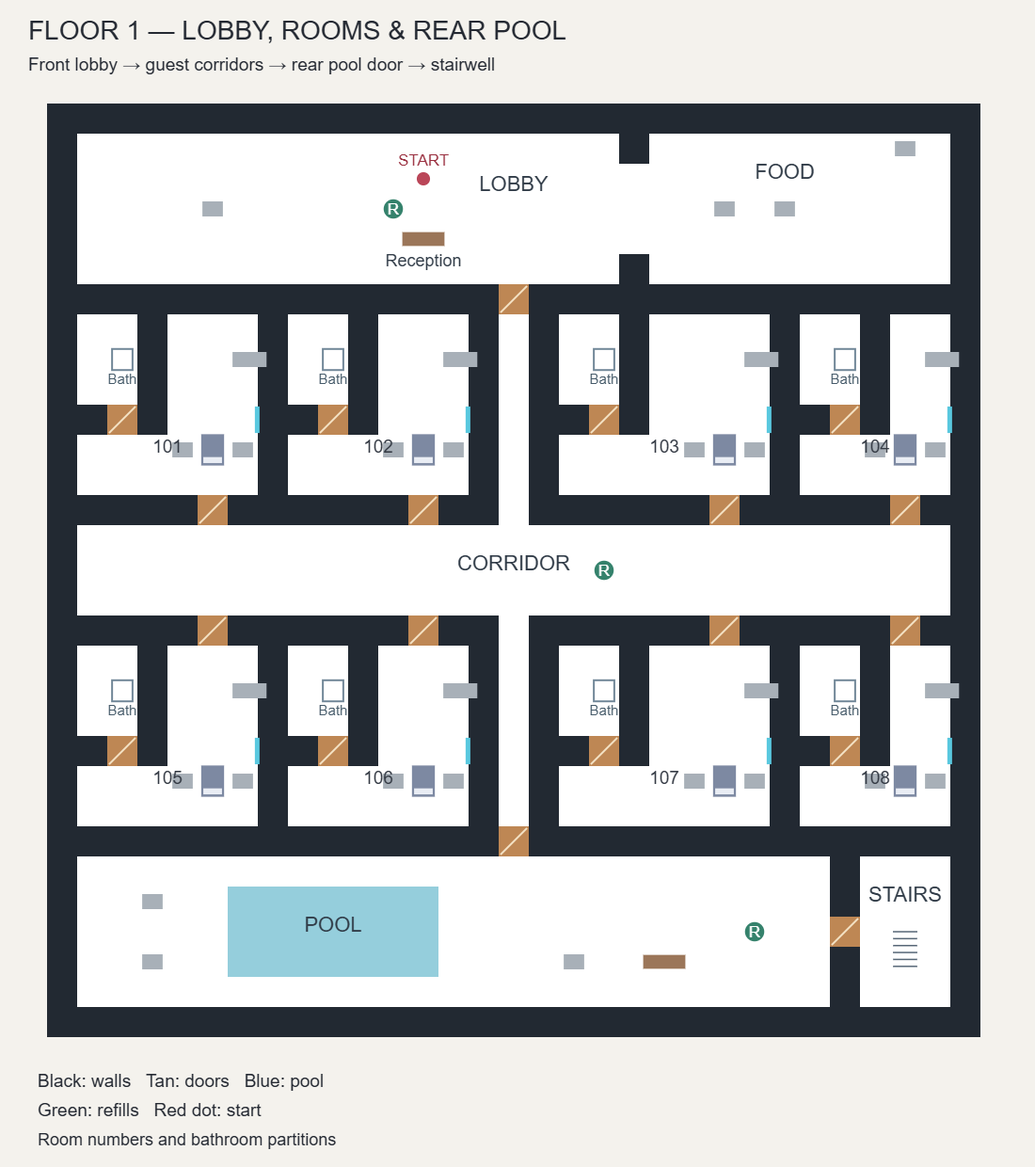
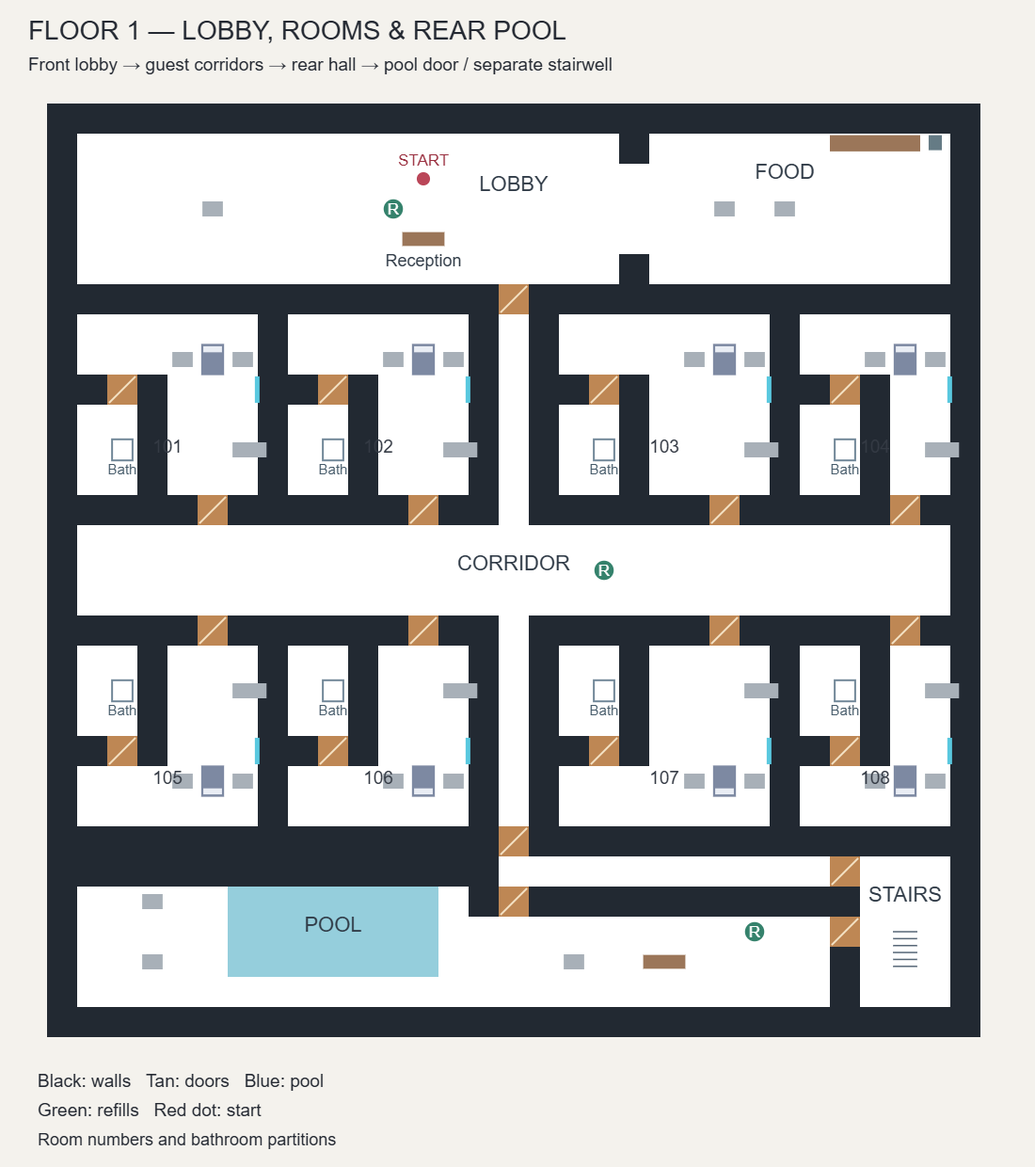
Correct hotel circulation and add dining breakfast station

diff --git a/hotel-headshots/scene.js b/hotel-headshots/scene.js
@@ -39,13 +39,35 @@
   for(const d of map.doors){const x=R.world(d.x),z=R.world(d.z),side=map.grid[d.z-1]?.[d.x]==='#';d.side=side;box('door lintel',[x,3.25,z],side?[.35,.5,2.4]:[2.4,.5,.35],wood);const hinge=new B.TransformNode('door hinge',scene);hinge.position=side?V(x,0,z-1.13):V(x-1.13,0,z);hinge.rotation.y=side?Math.PI/2:0;const mesh=box('door',[1.13,1.5,0],[2.2,3,.12],wood,hinge,true);box('door inlay',[1.13,1.6,-.07],[1.82,2.2,.035],dark,hinge,true);sphere('handle',[1.95,1.2,-.16],[.12,.12,.12],gold,hinge,true);doors.push({data:d,hinge,mesh,angle:0,base:hinge.rotation.y});}
   function couch(x,z){box('sofa base',[x,.35,z],[1.9,.5,1.25],wood);box('sofa seat',[x,.65,z-.15],[1.65,.27,1],cloth);box('sofa back',[x,1.05,z+.47],[1.9,.95,.3],cloth);for(const s of [-1,1])box('sofa arm',[x+s*.91,.8,z],[.22,.65,1.25],cloth);for(const s of [-1,1])box('pillow',[x+s*.42,.92,z+.2],[.55,.4,.24],white);}
   function bottle(x,y,z,i){const n=new B.TransformNode('bottle',scene);n.position=V(x,y,z);const m=cylinder('bottle body',[0,.17,0],.34,.14,i%2?glass:gold,n,true);cylinder('bottle neck',[0,.4,0],.15,.065,glass,n,true);box('bottle label',[0,.18,-.073],[.095,.13,.008],white,n,true);const o={node:n,mesh:m,kind:'bottle',fall:0,base:y};for(const p of n.getChildMeshes())p.metadata={object:o};objects.push(o);}
-  for(const p of map.props){const x=R.world(p.x),z=R.world(p.z);
+  for(const p of map.props){const meshStart=scene.meshes.length;const x=R.world(p.x),z=R.world(p.z);
    if(p.kind==='dining-table'){
     box('dining top',[x,.78,z],[1.7,.12,3.2],wood);for(const a of [-.65,.65])for(const b of [-1.35,1.35])box('table leg',[x+a,.38,z+b],[.07,.76,.07],gold);
     const cz=z+2.4;box('dining seat',[x,.48,cz],[.65,.12,.65],cloth);box('chair back',[x,.85,cz+.33],[.65,.75,.09],wood);for(const a of [-.27,.27])for(const b of [-.27,.27])box('chair leg',[x+a,.23,cz+b],[.045,.46,.045],gold);
     for(const dz of [-1.05,1.05]){cylinder('ceramic plate',[x,.86,z+dz],.035,.42,white);sphere('noodle bowl',[x,.91,z+dz],[.32,.12,.32],stone);sphere('meal',[x,.97,z+dz],[.25,.04,.25],mat('noodles','#c8a16a'));for(let i=0;i<4;i++)sphere('vegetables',[x-.08+i*.05,.995,z+dz+(i%2)*.06],[.04,.025,.05],leaf);cylinder('paper cup',[x+.53,.98,z+dz],.25,.14,white);box('napkin',[x-.5,.86,z+dz],[.25,.015,.3],white);box('chopsticks',[x-.48,.88,z+dz],[.025,.015,.28],gold);}bottle(x+.5,.85,z,0);
    }
-   if(p.kind==='buffet'){box('food counter',[x,.52,z],[2.3,1.04,1.1],dark);box('serving top',[x,1.08,z],[2.4,.1,1.2],gold);for(const dx of [-.7,0,.7]){box('hot food tray',[x+dx,1.17,z],[.55,.1,.65],stone);sphere('food tray contents',[x+dx,1.24,z],[.45,.08,.55],mat('noodles','#c8a16a'));}box('extractor hood',[x,2.7,z],[2.5,.35,1.2],gold);sign('NIGHT BITES / OPEN 25 HOURS',[x,2.1,z+.62],3.3,.5,Math.PI);}
+   if(p.kind==='buffet'){
+    const cz=z-.5,bread=mat('toasted pastry','#b77b42',.9),egg=mat('egg yolk','#e4ac36',.75),fruit=mat('breakfast fruit','#9b3935',.65);
+    box('breakfast counter',[x,.5,cz],[7.2,1,1.25],dark);box('breakfast worktop',[x,1.04,cz],[7.25,.08,1.3],stone);
+    box('counter backsplash',[x,1.25,cz-.62],[7.2,.4,.06],gold);
+    for(const dx of [-2.8,-1.4,0]){box('breakfast tray',[x+dx,1.12,cz],[1.15,.08,.8],gold);box('cabinet door',[x+dx,.52,cz+.64],[1.25,.84,.025],wood);box('cabinet handle',[x+dx,.83,cz+.68],[.32,.035,.04],gold);}
+    for(let i=0;i<4;i++){const fx=x-3.08+(i%2)*.5,fz=cz-.22+Math.floor(i/2)*.42;sphere('fried egg white',[fx,1.18,fz],[.38,.04,.3],white);sphere('fried egg yolk',[fx,1.21,fz],[.15,.07,.15],egg);}
+    for(let stack=0;stack<2;stack++){for(let layer=0;layer<3;layer++)cylinder('pancake',[x-1.66+stack*.52,1.18+layer*.065,cz],.065,.43,bread);box('butter pat',[x-1.66+stack*.52,1.36,cz],[.12,.035,.12],egg);}
+    for(let i=0;i<3;i++){const bun=sphere('breakfast pastry',[x-.35+i*.35,1.23,cz-.16],[.28,.18,.4],bread);bun.rotation.y=.35;}
+    for(let i=0;i<4;i++)sphere('fresh apple',[x-.35+i*.22,1.22,cz+.27],[.18,.19,.18],fruit);
+    box('coffee machine',[x+2.45,1.47,cz-.08],[.78,.78,.65],dark);box('coffee steel face',[x+2.45,1.49,cz+.26],[.69,.6,.035],gold);
+    box('coffee display',[x+2.45,1.67,cz+.29],[.34,.12,.02],glass);cylinder('coffee spout',[x+2.45,1.38,cz+.36],.13,.05,gold);
+    box('coffee drip tray',[x+2.45,1.14,cz+.42],[.66,.06,.3],gold);
+    for(let i=0;i<3;i++)cylinder('stacked coffee cups',[x+1.55,1.14+i*.1,cz+.18],.14,.18,white);
+    cylinder('sugar jar',[x+1.1,1.23,cz-.15],.28,.22,white);cylinder('sugar lid',[x+1.1,1.39,cz-.15],.04,.24,gold);
+    sign('BREAKFAST / EGGS + PANCAKES + PASTRIES',[x-.8,2.1,cz-.58],4.8,.42,Math.PI);
+    sign('COFFEE',[x+2.45,2.1,cz-.58],1.25,.4,Math.PI);
+   }
+   if(p.kind==='mini-fridge'){
+    const cz=z-.5;box('mini fridge',[x,.55,cz],[1.05,1.1,1.2],dark);box('fridge door',[x,.57,cz+.62],[.96,.98,.07],stone);
+    box('fridge handle',[x+.35,.65,cz+.7],[.05,.46,.06],gold);box('fridge gasket',[x,1.08,cz+.66],[.96,.025,.02],dark);
+    for(let i=0;i<5;i++)box('fridge ventilation slot',[x-.32+i*.16,.11,cz+.67],[.09,.035,.02],dark);
+    sign('CHILLED / MILK + JUICE',[x,.85,cz+.67],.86,.2,Math.PI);box('fridge status light',[x-.34,.2,cz+.68],[.035,.035,.02],lampMat);
+   }
    if(p.kind==='couch')couch(x,z);
    if(p.kind==='nightstand'){
     // Move the small bedside cabinet toward the bed with a matching small collision footprint.
@@ -71,6 +93,7 @@
    if(p.kind==='bath'){box('bath mat',[x,.012,z],[1.7,.025,2],stone);box('vanity',[x,.55,z+.65],[1.7,1.1,.65],wood);sphere('basin',[x,1.12,z+.65],[.7,.13,.4],white);cylinder('tap',[x,1.25,z+.85],.28,.06,gold);box('mirror frame',[x,1.95,z+1.05],[1.8,1.3,.08],gold);const mirrorMat=mat('mirror','#bcc6c9',.05,1),mirror=box('mirror',[x,1.95,z+1],[1.65,1.15,.015],mirrorMat,null,true);mirrors.push(mirror);}
    if(p.kind==='pool'||p.kind==='tub'){const pool=p.kind==='pool',w=pool?p.width:2.1,h=pool?p.depth:2.1;box('pool basin',[x,pool?-1.3:.04,z],[w,.12,h],stone);const waterMat=mat('water','#196b75',.12,.3);waterMat.alpha=.78;waterMat.emissiveColor=new B.Color3(.015,.11,.12);box('water',[x,.13,z],[w-.5,.04,h-.5],waterMat,null,true);for(const s of [-1,1]){box('pool rim',[x+s*w/2,.2,z],[.25,.3,h],white);box('pool rim',[x,.2,z+s*h/2],[w,.3,.25],white);}if(pool){for(let i=0;i<Math.floor(w/2.4);i++)box('pool lane',[x-w/2+1.2+i*2.4,-1.21,z],[.04,.01,h-.5],white);}}
    if(p.kind==='lounger'){const m=box('lounger',[x,.43,z],[.7,.12,1.7],white);m.rotation.x=-.14;for(const s of [-1,1])box('chair leg',[x+s*.28,.23,z],[.06,.4,1.3],gold);}
+   if(p.mirrorZ)for(const mesh of scene.meshes.slice(meshStart))if(!mesh.parent)mesh.position.z=2*z-mesh.position.z;
   }
   if(map.dining){sign('NIGHT BITES / NOODLES + COFFEE',[57.6,2.45,13.15],5,.65);const light=new B.PointLight('food area practical',V(55.2,2.8,8),scene);light.diffuse=new B.Color3(1,.77,.53);light.intensity=2;light.range=16;box('food pendant',[55.2,3.1,8],[1.4,.16,.35],dark);box('food diffuser',[55.2,3,8],[1.3,.04,.25],white);}
   // Pleated curtains sway on contact; small objects can be knocked over.
@@ -96,16 +119,17 @@
   for(const side of [-1,1]){for(let i=0;i<4;i++)cylinder('banister',[sx+side*1.03,.7+i*.2,sz-2+i*.6],1,.04,gold);const rail=box('stair handrail',[sx+side*1.03,1.5,sz-1],[.06,.06,2.8],gold);rail.rotation.x=-.35;}
   if(map.index>0)sign('STAIRS DOWN / FLOOR '+map.index,[R.world(map.down[0]),2.5,R.world(map.down[1])-.9],3,.5,Math.PI);
   sign('HOTEL // LIABILITY',[center,3.1,.95],6,.6,Math.PI);
-  sign('POOL / SPA',[R.world(15),2.8,R.world(24)-.2],2,.4);
+  sign('POOL / STAIRS',[R.world(15),2.8,R.world(24)-.2],2,.4);
+  sign('POOL / SPA',[R.world(15),2.8,R.world(26)-.2],2,.4);
   // A visible ladder marks the only swimmers' exit; swimmers climb before pursuing.
   const ex=R.world(map.pool.edge[0])-.95,ez=R.world(map.pool.edge[1]);
   for(const side of [-1,1])cylinder('pool ladder rail',[ex,.2,ez+side*.4],1.5,.065,gold);
   for(let i=0;i<5;i++){const rung=cylinder('pool ladder rung',[ex,-.8+i*.3,ez],.8,.055,gold);rung.rotation.x=Math.PI/2;}
-  for(const room of map.rooms){const x=R.world(room.bath[0]),z=R.world(room.bath[1]);box('shower tray',[x-.65,.04,z-.5],[.9,.08,1],white);cylinder('shower riser',[x-.9,1.3,z-.8],2.2,.04,gold);sphere('toilet bowl',[x+.55,.36,z-.5],[.5,.55,.75],white);box('toilet cistern',[x+.55,.65,z-.85],[.52,.65,.22],white);}
+  for(const room of map.rooms){const meshStart=scene.meshes.length,x=R.world(room.bath[0]),z=R.world(room.bath[1]);box('shower tray',[x-.65,.04,z-.5],[.9,.08,1],white);cylinder('shower riser',[x-.9,1.3,z-.8],2.2,.04,gold);sphere('toilet bowl',[x+.55,.36,z-.5],[.5,.55,.75],white);box('toilet cistern',[x+.55,.65,z-.85],[.52,.65,.22],white);if(room.facing<0)for(const mesh of scene.meshes.slice(meshStart))mesh.position.z=2*z-mesh.position.z;}
   if(map.index===4){for(let i=0;i<24;i++){const x=(i%8)*9-9,z=i<8?65:(i<16?-14:55),h=8+(i*13%19);box('city silhouette',[x,h/2,z],[5,h,5],dark);}sign('E · CHECK OUT',[sx,2.9,sz+.65],3,.55);}
   // Merge static architecture by material; interactive/hit-tested parts stay separate.
   for(const material of new Set(statics.map(m=>m.material))){const list=statics.filter(m=>m.material===material);if(list.length>1){const merged=B.Mesh.MergeMeshes(list,true,true,undefined,false,true);if(merged){merged.name='hotel '+material.name;merged.receiveShadows=true;}}}
-  if(settings.shadows&&mirrors.length){const m=mirrors[0],tex=new B.MirrorTexture('bathroom reflection',256,scene,true);tex.mirrorPlane=new B.Plane(0,0,-1,m.position.z);tex.level=.45;tex.renderList=scene.meshes.filter(x=>!mirrors.includes(x));m.material.reflectionTexture=tex;tex.refreshRate=2;}
+  if(settings.shadows&&mirrors.length){const m=mirrors[0],tex=new B.MirrorTexture('bathroom reflection',256,scene,true);tex.mirrorPlane=new B.Plane(0,0,1,-m.position.z);tex.level=.45;tex.renderList=scene.meshes.filter(x=>!mirrors.includes(x));m.material.reflectionTexture=tex;tex.refreshRate=2;}
   const glow=new B.GlowLayer('neon spill',scene,{blurKernelSize:32});glow.intensity=.65;
   scene.imageProcessingConfiguration.contrast=1.12;scene.imageProcessingConfiguration.exposure=1.2;
   const windows=HotelWindows.build(scene,camera,map);

diff --git a/hotel-headshots/rules.js b/hotel-headshots/rules.js
@@ -15,34 +15,50 @@
   const doors=[],props=[],refills=[[11,3],[18,15],[23,27]],spawns=[],roomLabels=[],rooms=[],obstacles=[];
   const wall=(x1,z1,x2,z2)=>{for(let z=z1;z<=z2;z++)for(let x=x1;x<=x2;x++)grid[z][x]='#';};
   const door=(x,z,label)=>{grid[z][x]='D';doors.push({x,z,label,open:false});};
-  const prop=(kind,x,z,extra={})=>{props.push({kind,x,z,...extra});if(['desk','couch','bed','bar','tub','dining-table','buffet','room-desk'].includes(kind))grid[z][x]='F';};
+  const prop=(kind,x,z,extra={})=>{props.push({kind,x,z,...extra});if(['desk','couch','bed','bar','tub','dining-table','buffet','mini-fridge','room-desk'].includes(kind))grid[z][x]='F';};
   // Front lobby, a longitudinal hall, and a double-loaded cross corridor.
   wall(1,6,29,6);door(15,6,'GUEST WING');
   const columns=index===3?[[1,13],[17,23],[25,29]]:index===4?[[1,13],[17,29]]:index===2?[[1,6],[8,13],[17,29]]:[[1,6],[8,13],[17,23],[25,29]];
   for(const [row,z0,z1,entryZ] of [[0,7,12,13],[1,18,23,17]])for(const [x0,x1] of columns){
    wall(x0-1,z0-1,x0-1,z1+1);wall(x1+1,z0-1,x1+1,z1+1);wall(x0,z1+1,x1,z1+1);wall(x0,z0-1,x1,z0-1);
+   const propStart=props.length,obstacleStart=obstacles.length;
    const dx=x1-1;door(dx,entryZ,'ROOM '+((index+1)*100+rooms.length+1));
    const bx=x0+1,bz=z0+1;wall(x0+2,z0,x0+2,z0+2);wall(x0,z0+3,x0+2,z0+3);door(x0+1,z0+3,'BATHROOM');
    prop('bath',bx,bz);const bed=[x1-1,z1-1];prop('bed',...bed);
-   const room={id:rooms.length,number:(index+1)*100+rooms.length+1,bounds:[x0,z0,x1,z1],door:[dx,entryZ],bed,bath:[bx,bz],bedside:[bed[0],bed[1]+1],awake:[x1,z1]};rooms.push(room);
+   const room={id:rooms.length,number:(index+1)*100+rooms.length+1,bounds:[x0,z0,x1,z1],door:[dx,entryZ],bed,bath:[bx,bz],bedside:[bed[0],bed[1]-1],awake:[x1,z1]};rooms.push(room);
    room.window={x:x1+.48,z:z0+3};room.bathDoor=[x0+1,z0+3];room.furniture={nightstands:[[bed[0]-1,bed[1]],[bed[0]+1,bed[1]]],desk:[x1,z0+1],chair:[x1,z0+1.32],tv:[x1+.45,z0+1]};
    for(const point of room.furniture.nightstands){prop('nightstand',...point,{room:room.id});obstacles.push({x:world(point[0])+(point[0]<bed[0]?1.05:-1.05),z:world(point[1])+.45,hx:.34,hz:.35});}
    prop('room-desk',...room.furniture.desk,{room:room.id});prop('room-tv',...room.furniture.tv,{room:room.id});
    roomLabels.push(['ROOM '+room.number,dx,entryZ]);
    if(x1-x0>7)prop('couch',x1-3,z1-1);
+   // Mirror the far row: bathrooms at the corridor, sleeping area deeper inside.
+   room.facing=row===0?-1:1;
+   if(row===0){
+    const flip=z=>z0+z1-z,copy=grid.slice(z0,z1+1).map(r=>r.slice());
+    for(let z=z0;z<=z1;z++)for(let x=x0;x<=x1;x++)grid[z][x]=copy[flip(z)-z0][x];
+    for(const d of doors)if(d.x>=x0&&d.x<=x1&&d.z>=z0&&d.z<=z1)d.z=flip(d.z);
+    for(const key of ['bed','bath','bedside','awake','bathDoor'])room[key]=[room[key][0],flip(room[key][1])];
+    room.window.z=flip(room.window.z);
+    for(const key of ['desk','chair','tv'])room.furniture[key][1]=flip(room.furniture[key][1]);
+    room.furniture.nightstands.forEach(p=>p[1]=flip(p[1]));
+    for(const p of props.slice(propStart)){p.z=flip(p.z);p.mirrorZ=true;}
+    for(const o of obstacles.slice(obstacleStart))o.z=world(z0+z1)-o.z;
+   }
   }
   // Rear pool is reached through its own door, never through a guest bedroom.
-  wall(1,24,29,24);door(15,24,index===4?'ROOFTOP POOL':'POOL / SPA');
-  wall(26,25,26,29);door(26,27,'STAIRWELL');
-  const pool={bounds:index===2?[4,26,13,28]:[6,26,12,28],zone:[1,25,25,29],exit:[15,26],edge:[13,27]};
+  wall(1,24,29,24);door(15,24,'REAR HALL / STAIRS');
+  // Dry passage reaches the stair core without entering the pool enclosure.
+  wall(1,25,14,25);wall(14,26,25,26);door(15,26,index===4?'ROOFTOP POOL':'POOL / SPA');
+  wall(26,25,26,29);door(26,27,'STAIRWELL');door(26,25,'STAIR LOBBY');
+  const pool={bounds:index===2?[4,26,13,28]:[6,26,12,28],zone:[1,26,25,29],exit:[15,26],edge:[13,27]};
   pool.edge=[pool.bounds[2]+1,27];pool.exit=[pool.bounds[2]+2,27];
   for(let z=pool.bounds[1];z<=pool.bounds[3];z++)for(let x=pool.bounds[0];x<=pool.bounds[2];x++)grid[z][x]='W';
   props.push({kind:'pool',x:(pool.bounds[0]+pool.bounds[2])/2,z:27,width:(pool.bounds[2]-pool.bounds[0]+1)*TILE,depth:3*TILE});
   prop('bar',20,28);prop('lounger',3,26);prop('lounger',3,28);prop('lounger',17,28);
-  if(index===2)prop('tub',22,26);
-  prop('desk',12,4);prop('couch',5,3);
+  if(index===2)prop('tub',22,27);
+  if(index===0)prop('desk',12,4);else prop('couch',12,4);prop('couch',5,3);
   const dining=index===0?{bounds:[20,1,29,5],seats:[[22,4],[24,4]],stands:[[23,4],[25,4]]}:null;
-  if(dining){wall(19,1,19,1);wall(19,5,19,5);for(const x of [22,24])prop('dining-table',x,3);prop('buffet',28,1);roomLabels.push(['NIGHT BITES',25,1]);}else prop('couch',23,3);
+  if(dining){wall(19,1,19,1);wall(19,5,19,5);for(const x of [22,24])prop('dining-table',x,3);prop('buffet',27,1);grid[1][26]=grid[1][28]='F';prop('mini-fridge',29,1);roomLabels.push(['NIGHT BITES',25,1]);}else prop('couch',23,3);
   if(index===4){prop('bar',23,5);roomLabels.push(['PENTHOUSE LOUNGE',20,3]);}
   if(index===1)prop('couch',3,15);
   if(index===3)prop('couch',27,15);
@@ -50,11 +66,11 @@
   for(let z=7;z<24;z++)for(let x=1;x<30;x++)if(grid[z][x]==='.'&&(z===15||x===15))spawns.push([x,z]);
   const artworks=[];
   const art=(x,z,rotation,zone,room=null)=>artworks.push({x,z,rotation,zone,room,variant:(artworks.length+index)%4});
-  for(const room of rooms){const [x0,z0,x1]=room.bounds;art(world(x0+2)+1.26,world(z0+1),-Math.PI/2,'room',room.id);const front=room.door[1]===13;art(world(x0+1),world(room.door[1])+(front?1.26:-1.26),front?Math.PI:0,'hall');}
+  for(const room of rooms){const [x0,z0,x1]=room.bounds;art(world(x0+2)+1.26,world(room.bath[1]),-Math.PI/2,'room',room.id);const front=room.door[1]===13;art(world(x0+1),world(room.door[1])+(front?1.26:-1.26),front?Math.PI:0,'hall');}
   for(const x of [4,9,21,26])art(world(x),world(6)-1.26,0,'lobby');
   for(const x of [4,17,22])art(world(x),world(30)-1.26,0,'pool');
   art(world(28),world(30)-1.26,0,'stairs');
-  return {index,theme:THEMES[index],grid,doors,props,refills,spawns,roomLabels,rooms,pool,dining,obstacles,artworks,start:[12,2],stairs:[28,28],down:[15,2],reception:[12,4],receptionNPC:[11.65,4.65]};
+  return {index,theme:THEMES[index],grid,doors,props,refills,spawns,roomLabels,rooms,pool,dining,obstacles,artworks,start:[12,2],stairs:[28,28],down:[28,25],landing:[28,26.5],reception:[12,4],receptionNPC:[11.65,4.65]};
  }
  function inside(bounds,p){const x=cell(p.x),z=cell(p.z);return x>=bounds[0]&&x<=bounds[2]&&z>=bounds[1]&&z<=bounds[3];}
  function residents(map,count){return Array.from({length:count},(_,i)=>{const room=map.rooms[i%map.rooms.length];let role,point;

diff --git a/hotel-headshots/game.js b/hotel-headshots/game.js
@@ -27,12 +27,12 @@
  function loadFloor(index,descending=false,attract=false){
   reactions.stop();if(art)art.scene.dispose();bullets=[];splats=[];npcs=[];receptionist=null;map=R.level(index);art=HotelScene.build(engine,map,settings);const loadingArt=art;$('loading').hidden=false;art.ready.then(()=>{if(art!==loadingArt)return;art.readyState=true;$('loading').hidden=true;}).catch(()=>{if(art!==loadingArt)return;mode='error';unlock();$('loading').textContent='CHARACTERS COULD NOT LOAD. PLEASE RELOAD.';});gun=art.weapon();gun.setEnabled(!attract);yaw=descending?Math.PI:0;pitch=0;
   foamTexture=new B.DynamicTexture('white foam splatter',128,art.scene,false);foamTexture.hasAlpha=true;{const g=foamTexture.getContext();g.clearRect(0,0,128,128);g.fillStyle='#f4f7ff';for(let i=0;i<28;i++){const a=i*2.399,r=i<8?10:12+(i*17%43);g.beginPath();g.arc(64+Math.cos(a)*r,64+Math.sin(a)*r,i<8?20:2+i%6,0,Math.PI*2);g.fill();}foamTexture.update();}
-  const start=descending?[map.stairs[0],map.stairs[1]-1]:map.start;art.camera.position.copyFromFloats(R.world(start[0]),1.68,R.world(start[1]));
+  const start=descending||index>0?map.landing:map.start;if(descending||index>0)yaw=-Math.PI/2;art.camera.position.copyFromFloats(R.world(start[0]),1.68,R.world(start[1]));
   const saved=floorStates[index];if(saved)map.doors.forEach((d,i)=>d.open=!!saved.doors[i]);
   const count=Math.round(map.theme.count*R.DIFFICULTIES[run.difficulty].count);
   const specs=saved?.npcs||R.residents(map,count).map(s=>({...s,resistance:100+index*12+(s.id%3)*10,retreat:false,speed:(1.35+index*.55+(s.id%4)*.25)*R.DIFFICULTIES[run.difficulty].speed}));
   npcs=specs.map(s=>({...s,view:art.person(s.id,s.x,s.z,s.style),state:s.retreat?'retreat':s.activity,route:[],repath:s.id*.07,attack:1,alert:0,shield:0,lastSeen:null,search:0,target:null}));
-  for(const n of npcs)n.view.activity={kind:n.activity,progress:n.activity==='waking'?1-n.wakeRemaining/n.wakeDuration:n.activity==='rising'?n.rise||0:n.climb||0};
+  for(const n of npcs){if(['sleep','waking'].includes(n.activity))n.view.node.rotation.y=map.rooms[n.room].facing<0?Math.PI:0;n.view.activity={kind:n.activity,progress:n.activity==='waking'?1-n.wakeRemaining/n.wakeDuration:n.activity==='rising'?n.rise||0:n.climb||0};}
   if(index===0){receptionist=art.person(-1,R.world(map.receptionNPC[0]),R.world(map.receptionNPC[1]),1,true);art.sign('WELCOME / E TO CHECK IN',[R.world(map.reception[0]),2.8,R.world(map.reception[1])],3,.45);}
   if(attract){art.camera.position.copyFromFloats(R.world(15),1.72,R.world(2));yaw=.55;art.camera.rotation.y=yaw;}else{toast('FLOOR '+(index+1)+' · '+map.theme.subtitle,4);updateHud();}
  }

diff --git a/void-runner-sw.js b/void-runner-sw.js
@@ -1,7 +1,7 @@
 /* VOID//RUNNER only. Increment BUILD when deploying changed game files (the Pages build also stamps it with the commit,
    tools/assets/build-pages.cjs, so a deploy always starts a fresh cache). Restored 2026-10-31: a merge on 2026-10-26
    (f6f582e) had reduced this file to its BUILD line, which left the game without its offline cache. */
-const BUILD='2026-11-24-hotel-headshots-9';
+const BUILD='2026-11-24-hotel-headshots-10';
 const CORE='void-runner-core-'+BUILD;
 const ASSETS='void-runner-assets-'+BUILD;
 const PAGE=new URL('./void-runner.html',self.location).pathname;

diff --git a/docs/development/AI_HANDOFF.md b/docs/development/AI_HANDOFF.md
@@ -6,7 +6,7 @@
 
 ## CURRENT DEVELOPMENT STATE — RESUME HERE
 
-> **Codex draft, 18 Nov 2026 — HOTEL HEADSHOTS:** New standalone five-floor foam-blaster arcade game on `codex/hotel-headshots`, with a games-list card and the first unused District cabinet (formerly LASER MOTH). Owner corrections: neon/cyberpunk, not fancy; centered tan-only blaster without gray/white attachments. 24 Nov NPC pass: textured adult MakeHuman characters, fitted original swimwear, skeletal locomotion/guard blending and bone-following hit regions replace the primitive figures. 24 Nov reference-plan redesign: enclosed bedrooms/bathrooms, front lobby, rear pool and separate stairwell; sleeping/waking/bathroom/swimming residents; three blocking poses including palms-out. Ground-floor side dining area added with seated eating guests and stand-to-pursue reactions. All 32 rooms now have paired nightstands, writing desks/chairs, wall TVs and verified private bathroom access. All rooms have glazed windows with perspective-correct shared 3D city views (512px, 20Hz cap, six merged exterior meshes). Four owner-requested recorded foam-hit reactions are integrated with positional audio, overlap limits and pause/mute support. Original flower and bee paintings in walnut frames now decorate all five floors and every guest room (104 placements). Plans and behavior screenshots are in the linked implementation notes. Environment remains procedural; not a photorealistic/AAA certification. Not merged or live. Implementation, verification and limitations: [`HOTEL_HEADSHOTS.md`](HOTEL_HEADSHOTS.md).
+> **Codex draft, 18 Nov 2026 — HOTEL HEADSHOTS:** New standalone five-floor foam-blaster arcade game on `codex/hotel-headshots`, with a games-list card and the first unused District cabinet (formerly LASER MOTH). Owner corrections: neon/cyberpunk, not fancy; centered tan-only blaster without gray/white attachments. 24 Nov NPC pass: textured adult MakeHuman characters, fitted original swimwear, skeletal locomotion/guard blending and bone-following hit regions replace the primitive figures. 24 Nov reference-plan redesign: enclosed bedrooms/bathrooms, front lobby, rear pool and separate stairwell; sleeping/waking/bathroom/swimming residents; three blocking poses including palms-out. Ground-floor side dining area added with seated eating guests and stand-to-pursue reactions. All 32 rooms now have paired nightstands, writing desks/chairs, wall TVs and verified private bathroom access. All rooms have glazed windows with perspective-correct shared 3D city views (512px, 20Hz cap, six merged exterior meshes). Four owner-requested recorded foam-hit reactions are integrated with positional audio, overlap limits and pause/mute support. Original flower and bee paintings in walnut frames now decorate all five floors and every guest room (104 placements). Layout audit: mirrored guestrooms with entry-side bathrooms and clear foot-of-bed exits, aligned rear stair landings, separate dry pool/stair access, and a wall-side breakfast buffet, coffee machine and mini fridge in dining. Plans and behavior screenshots are in the linked implementation notes. Environment remains procedural; not a photorealistic/AAA certification. Not merged or live. Implementation, verification and limitations: [`HOTEL_HEADSHOTS.md`](HOTEL_HEADSHOTS.md).
 
 
 ### 17 Nov 2026 (newest): MISSION 003 — CORPORATE CONNECTIONS (branch `claude/mission-003`, build `2026-11-17-mission-003-1`, pushed, NO PR, not merged)

diff --git a/docs/development/HOTEL_HEADSHOTS.md b/docs/development/HOTEL_HEADSHOTS.md
@@ -84,3 +84,18 @@ Final reaction validation: full Node suite 1,171 passed, 0 failed, 1 skipped; 14
 Owner-requested original oil-painting artwork: flowers only, bees flying around flowers, bees landed on blooms, and a mixed flying/landed composition. One generated square four-panel atlas is shared by four materials. 104 paintings across the five floors: every guest room, guest corridors, front lobbies, pool decks and stair landings. Frames are modeled walnut rails and inset edges with a shared wood-grain texture. Existing abstract placeholders are replaced. Paintings remain projectile-pickable and can receive temporary foam splatters. Frames are merged with other static geometry; no extra lights or animation loops are added.
 
 Validation: all 15 Hotel Headshots rules/assets checks passed, including artwork coverage and unobstructed viewing positions on all floors. The browser artwork check verifies loaded textures, matching placement counts, wood-frame materials and no page errors; screenshots of flowers only, flying bees and landed bees are checked visually.
+
+
+## 24 Nov 2026 — hotel layout audit and breakfast counter
+
+Compared the owner's hotel-plan references with the [Gaylord Texan guest-room plans, page 4](https://www.marriott.com/content/dam/marriott-digital/ge/us-canada/hws/d/dalgt/en_us/document/assets/ge-dalgt-guest-rooms-suites-guide-99867.pdf) and the [Marriott Marquis room description](https://context.hosthotels.com/faq/html/properties/new-york-marriott-marquis/rooms.html). The useful patterns are a private bathroom near the entrance, sleeping space deeper in the room, furniture clear of circulation, and common corridors serving rooms independently.
+
+- Mirrored the upper guest-room row, including bathrooms, furniture, window positions, paintings, sleeping orientation and collision footprints. Both rows now put bathrooms nearer the corridor and beds farther inside.
+- Wake-up destinations are at the foot of each bed instead of behind its headboard.
+- Upstairs/downstairs interactions share the same rear stair core on every floor; arriving players spawn on its clear landing. Upper floors have lounge seating instead of duplicate check-in desks.
+- A dry rear passage connects the main hall to the stairwell without entering the pool. The pool has its own door; swimmers react when the player enters the pool area, not the dry passage.
+- Ground-floor dining now has a wall-side breakfast counter with eggs, pancake stacks and butter, pastries, apples, a coffee machine, cups, sugar, and an adjacent mini fridge. The counter and fridge have collision; diners retain clear exits.
+
+These are gameplay plans, not construction drawings: rooms and corridors retain generous arcade clearances; windows continue using the shared 3D city-view optimization; floor changes remain transitions rather than a continuous stacked building. The fridge and breakfast items are scenery, not a food inventory system. Updated floor-plan PNGs are generated from the actual level data.
+
+Validation: 17 focused hotel tests; full Node suite 1,174 passed / 1 skipped; resident browser checks passed (dining, slow/fast waking, bathrooms, pool entry/ladder exits, blocking poses); complete gameplay browser passed all five floors, stair down/up round trip, victory and persistent scores. Breakfast counter preview rendered without browser errors.
